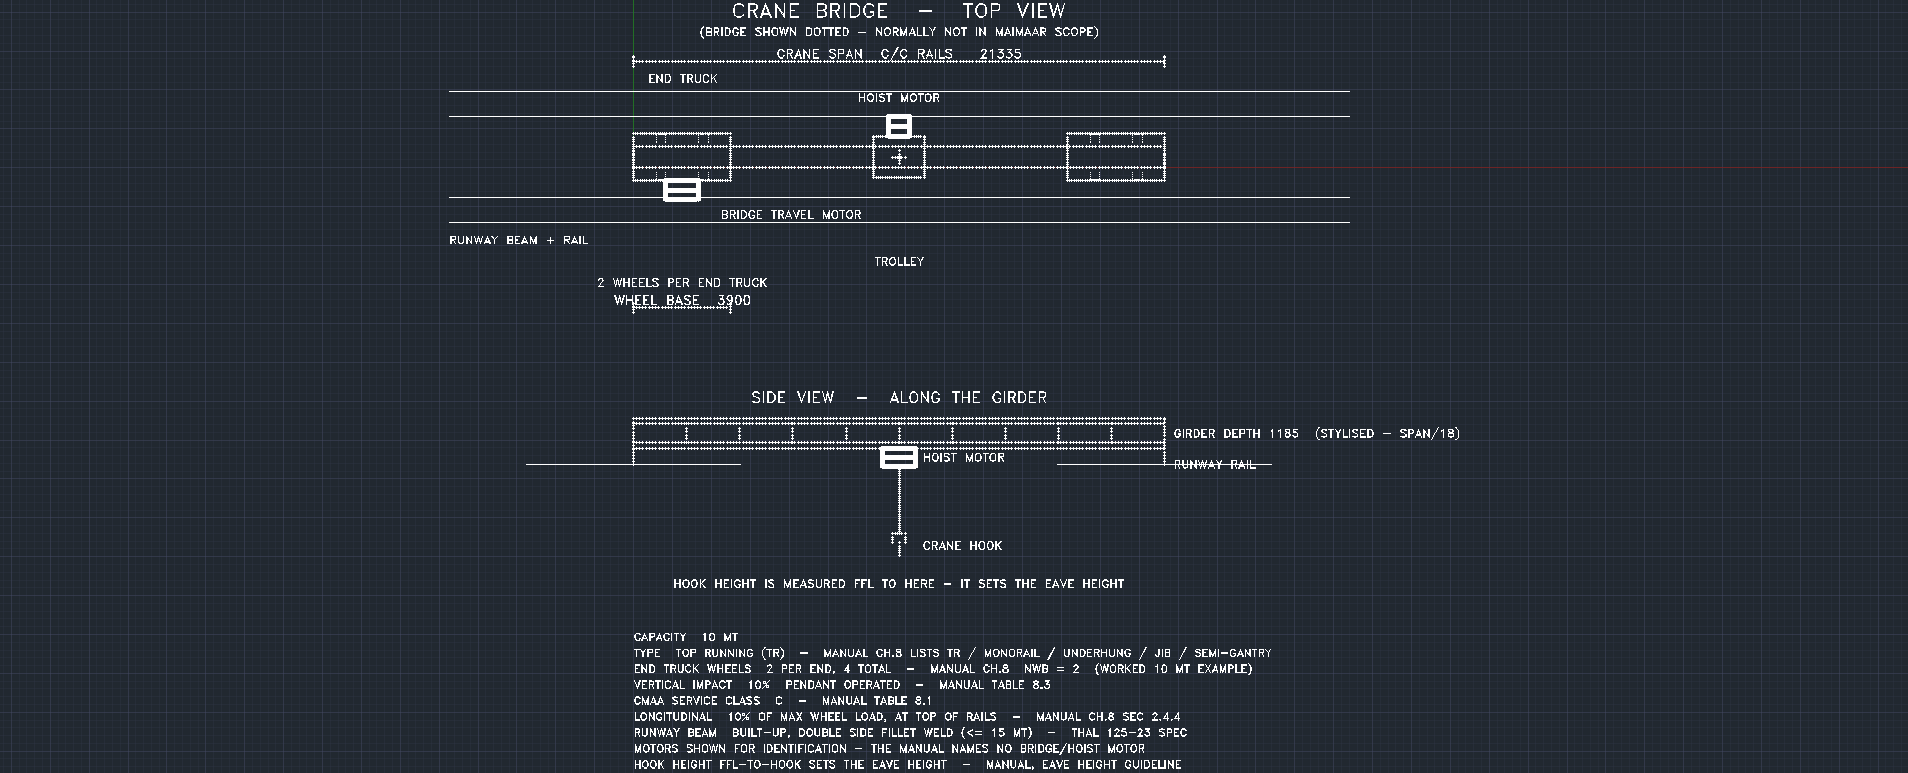
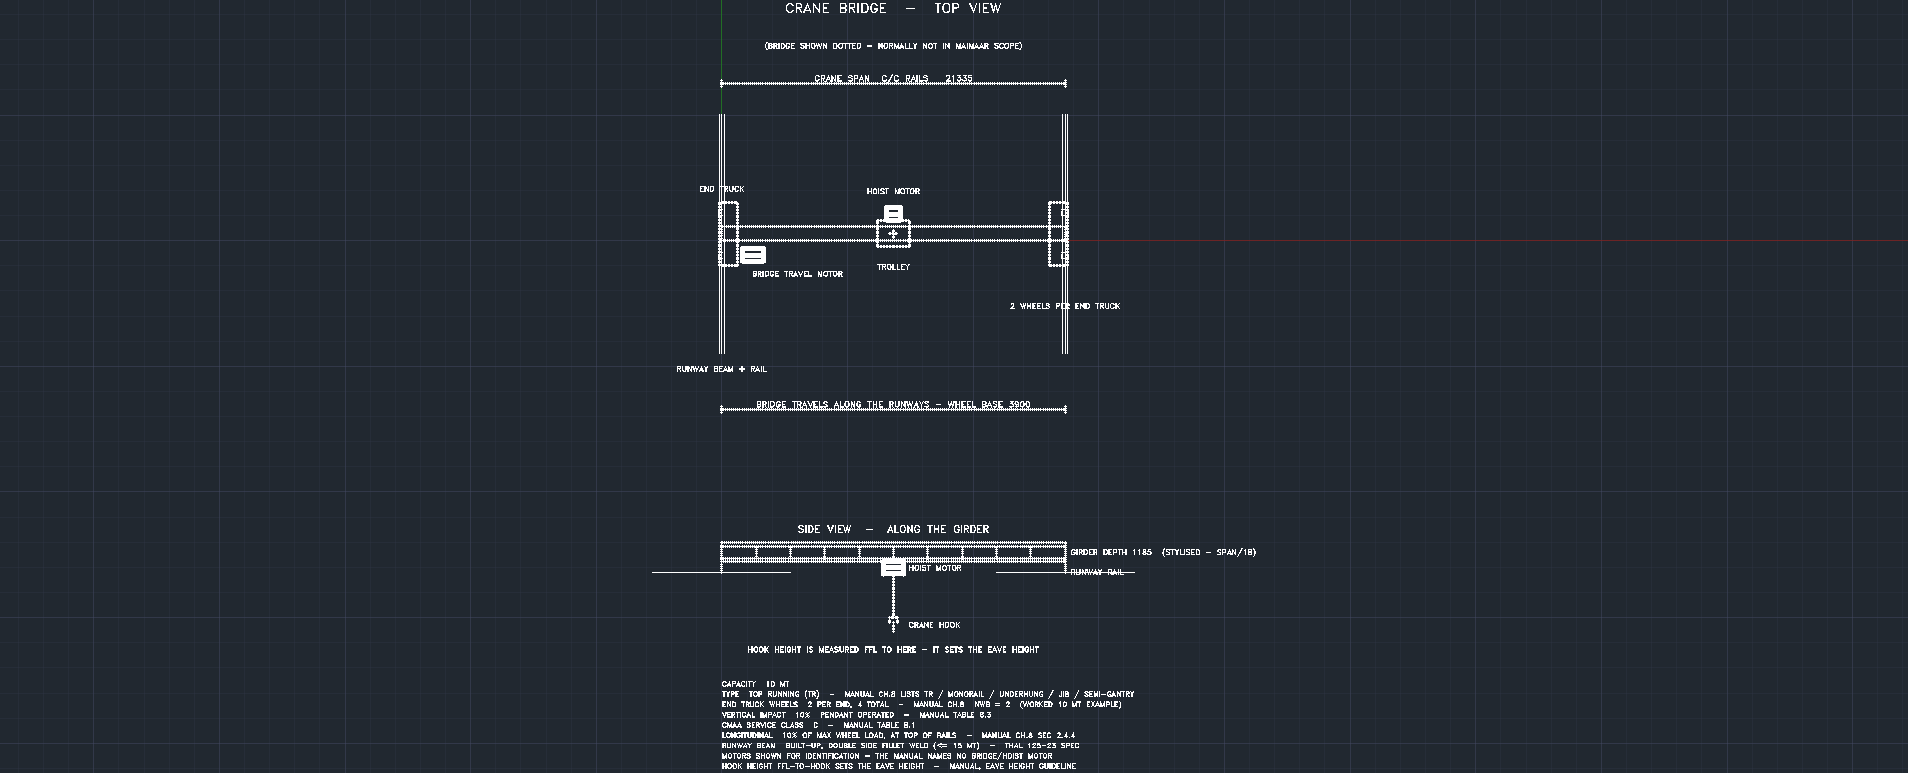
Crane top view: the ORIENTATION was wrong — runways and end trucks now perpendicular to the girder
Owner: "This is not Correct ... it is giving the resemblance of crane". Exactly right, and that
phrase is the diagnosis: every part was present and the arrangement was impossible.

In plan:
    the BRIDGE spans the building WIDTH        -> horizontal, x0 to x1
    the RUNWAYS run along the building LENGTH  -> PERPENDICULAR to it, at x0 and x1
    an END TRUCK runs along its RUNWAY         -> long axis ACROSS the girder, length = wheel base
    the two WHEELS of each truck sit on that runway, fore and aft

I had drawn the runways as horizontal lines PARALLEL to the girder, and the end trucks extending
ALONG the girder axis with the wheel base measured the same way. A bridge whose end trucks point
along its own span cannot travel — it is a crane-shaped object, not a crane. It still read vaguely
right, which is the trap: parts present, arrangement impossible, and nothing a paren check or a
lint pass can see. Only looking at it catches this, and only if you know what you are looking at.

Now: runway beams as vertical pairs with their rail at each end of the girder; end trucks across
the girder at the wheel base; two wheels per truck straddling the rail line fore and aft (manual
NWb = 2); trolley and hoist motor on the girder; bridge travel motor on the end truck. Labels
moved onto the corrected geometry, and the wheel-base dimension now reads "BRIDGE TRAVELS ALONG
THE RUNWAYS".

The sample harness also plots a monochrome A3 PDF now, alongside the PNG and DWG, so the sheet can
[…]

diff --git a/3_Draftsman/Proposal Drawings/engine/Library/Overhead Crane/sample/render_sample.js b/3_Draftsman/Proposal Drawings/engine/Library/Overhead Crane/sample/render_sample.js
@@ -27,6 +27,7 @@ fs.mkdirSync(WORK, { recursive: true });
 const q = (s) => s.split('/').join('\\\\');
 const png = WORK + '/CRANE_BRIDGE.png';
 const dwg = WORK + '/CRANE_BRIDGE.dwg';
+const pdf = WORK + '/CRANE_BRIDGE.pdf';
 
 const scr = [
   'FILEDIA', '0', '(setvar "SECURELOAD" 0)',
@@ -37,6 +38,25 @@ const scr = [
   '(command "_.ZOOM" "_E")',
   '(if (findfile "' + q(png) + '") (vl-file-delete "' + q(png) + '"))',
   '(command "_.PNGOUT" "' + q(png) + '" "")',
+  // A3 landscape PDF of the sheet, monochrome like the deliverable, so the crane can be looked
+  // at on paper at a size where its detail is visible.
+  '(vl-load-com)',
+  '(defun plotpdf (fn / doc lay plt)',
+  '  (setq doc (vla-get-ActiveDocument (vlax-get-acad-object)) lay (vla-get-ActiveLayout doc))',
+  '  (vl-catch-all-apply (quote (lambda () (vla-put-ConfigName lay "DWG To PDF.pc3"))))',
+  '  (vl-catch-all-apply (quote (lambda () (vla-put-StyleSheet lay "monochrome.ctb"))))',
+  '  (vl-catch-all-apply (quote (lambda () (vla-put-PlotWithPlotStyles lay :vlax-true))))',
+  '  (vl-catch-all-apply (quote (lambda () (vla-put-PlotType lay 1))))',
+  '  (vl-catch-all-apply (quote (lambda () (vla-put-UseStandardScale lay :vlax-true))))',
+  '  (vl-catch-all-apply (quote (lambda () (vla-put-StandardScale lay 0))))',
+  '  (vl-catch-all-apply (quote (lambda () (vla-put-CenterPlot lay :vlax-true))))',
+  '  (vl-catch-all-apply (quote (lambda () (vla-put-CanonicalMediaName lay "ISO_full_bleed_A3_(420.00_x_297.00_MM)"))))',
+  '  (vl-catch-all-apply (quote (lambda () (vla-put-PlotRotation lay 0))))',
+  '  (setq plt (vla-get-Plot doc))',
+  '  (vl-catch-all-apply (quote (lambda () (vla-put-QuietErrorMode plt :vlax-true))))',
+  '  (vl-catch-all-apply (quote (lambda () (vla-PlotToFile plt fn)))))',
+  '(if (findfile "' + q(pdf) + '") (vl-file-delete "' + q(pdf) + '"))',
+  '(plotpdf "' + q(pdf) + '")',
   '(if (findfile "' + q(dwg) + '") (vl-file-delete "' + q(dwg) + '"))',
   '(command "_.SAVEAS" "2018" "' + q(dwg) + '")',
   'QUIT', 'Y', '',
@@ -48,3 +68,4 @@ try { execFileSync(ACAD, ['/nologo', '/b', scrPath], { cwd: WORK, timeout: 24000
 const ok = (f) => (fs.existsSync(f) ? Math.round(fs.statSync(f).size / 1024) + ' KB' : 'FAILED');
 console.log('PNG ' + ok(png) + '  ' + png);
 console.log('DWG ' + ok(dwg) + '  ' + dwg);
+console.log('PDF ' + ok(pdf) + '  ' + pdf);
